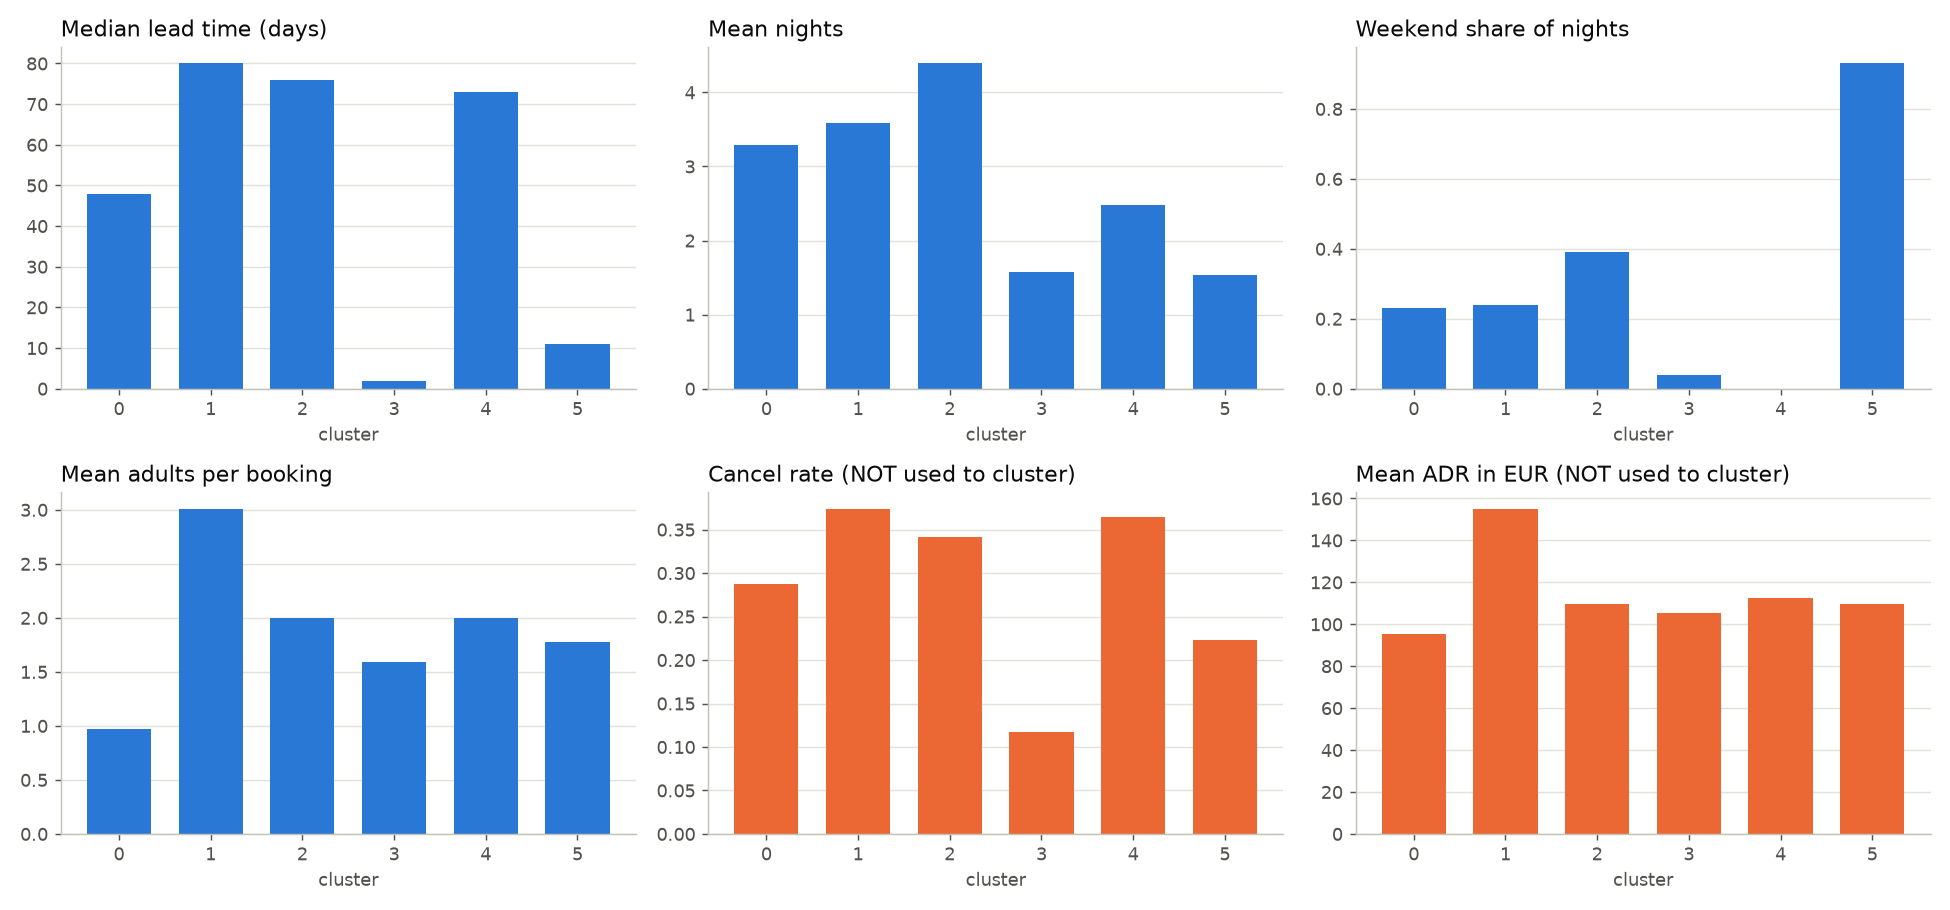
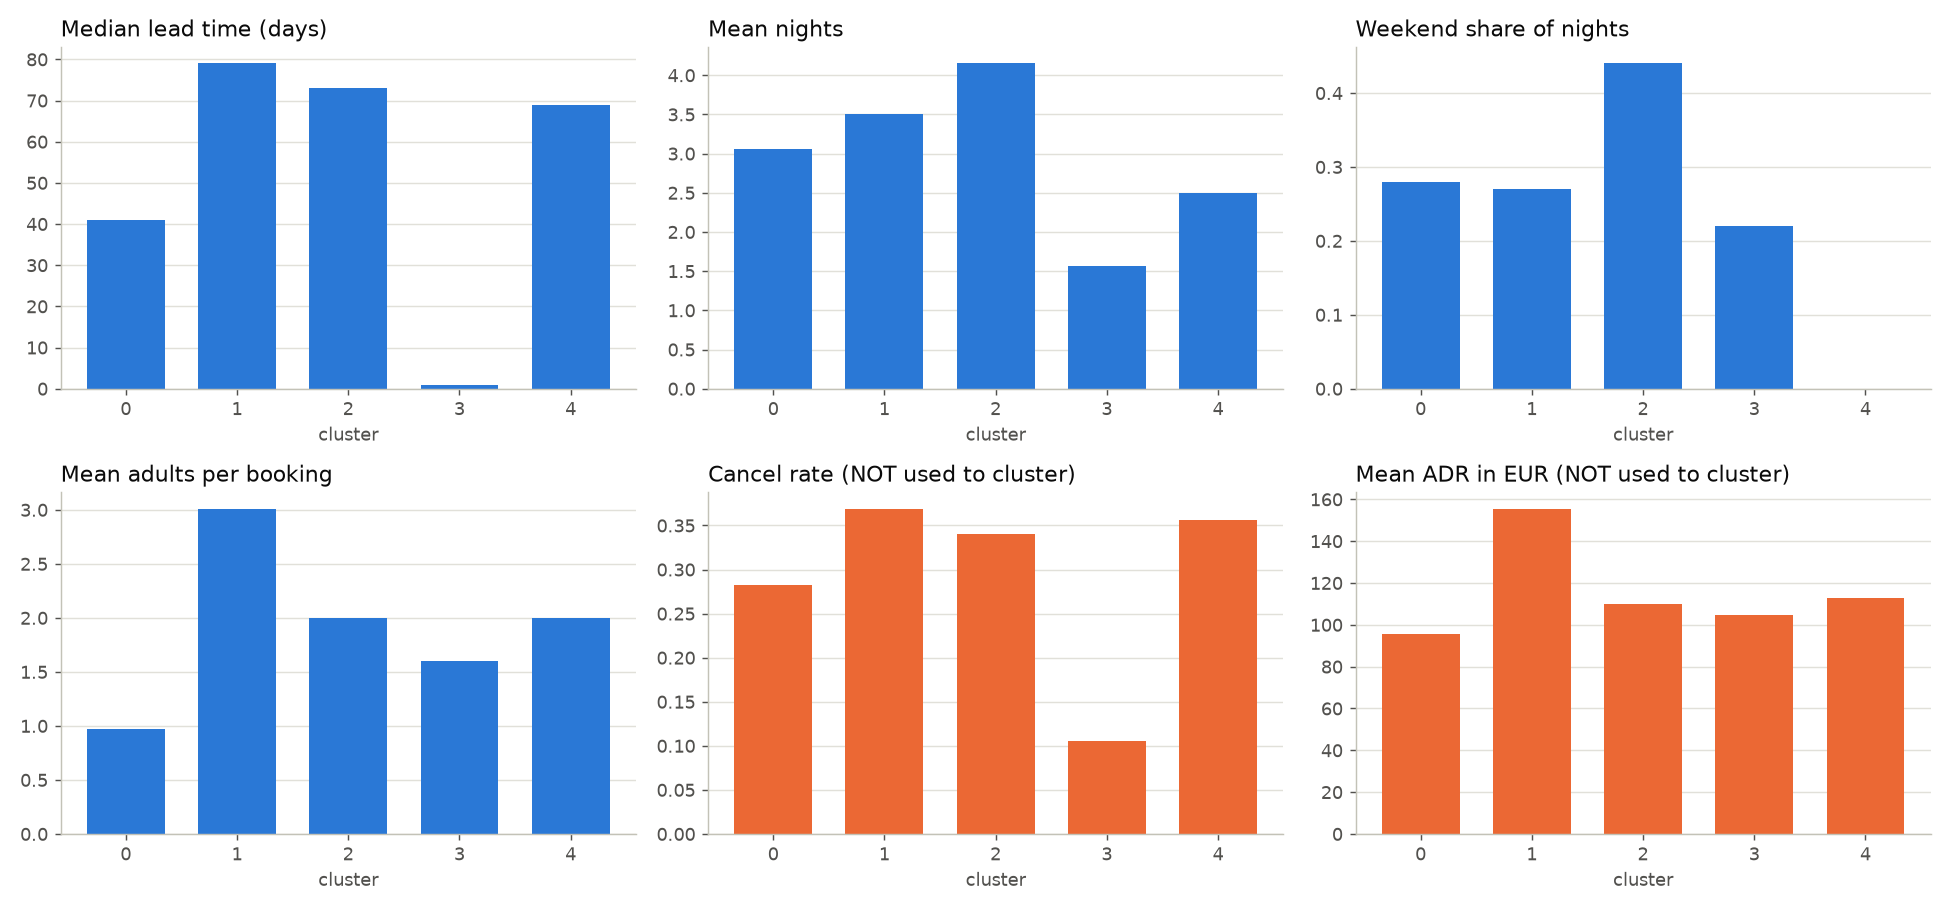
K-Means baseline: average over 5 seeds, add stability (ARI); k=5

diff --git a/src/clustering/kmeans_baseline.py b/src/clustering/kmeans_baseline.py
@@ -1,9 +1,16 @@
-"""Task C, Milestone 1: an untuned K-Means baseline on booking attributes (no outcome columns)."""
+"""Task C, Milestone 1: an untuned K-Means baseline on booking attributes (no outcome columns).
+
+Untuned means sklearn's default settings. Only k is chosen. To avoid reporting one lucky
+seed, every k is fitted with several seeds and the scores are averaged (this is a more
+honest measurement, not tuning: the model settings are not changed).
+"""
 import time
 
 import joblib
+import numpy as np
 import pandas as pd
 from sklearn.cluster import KMeans
+from sklearn.metrics import adjusted_rand_score
 from sklearn.pipeline import Pipeline
 from sklearn.preprocessing import FunctionTransformer
 
@@ -25,20 +32,38 @@ def build_kmeans_pipeline(k, seed):
     ])
 
 
-def scan_k(X, k_values, seed, silhouette_sample):
-    """Fit K-Means once for every k on the already-prepared matrix X and score each result."""
+def scan_k(X, k_values, seed, silhouette_sample, n_seeds):
+    """Fit K-Means for every k with n_seeds different seeds on the already-prepared matrix X.
+
+    The scores are averaged over the seeds. silhouette_std shows how much they move, and
+    stability_ari is the average agreement (1 = identical clusters) between the first
+    seed's clusters and the other seeds' clusters for the same k.
+    """
     rows = []
     for k in k_values:
-        start = time.perf_counter()
-        model = KMeans(n_clusters=k, random_state=seed).fit(X)
-        seconds = time.perf_counter() - start
-        scores = score_clustering(X, model.labels_, silhouette_sample, seed)
-        rows.append({"k": k, "inertia": model.inertia_, **scores, "fit_seconds": round(seconds, 2)})
+        fits = []
+        for s in range(n_seeds):
+            start = time.perf_counter()
+            model = KMeans(n_clusters=k, random_state=seed + s).fit(X)
+            fits.append((model, time.perf_counter() - start))
+        reference = fits[0][0].labels_
+        scores = [score_clustering(X, m.labels_, silhouette_sample, seed) for m, _ in fits]
+        aris = [adjusted_rand_score(reference, m.labels_) for m, _ in fits[1:]]
+        rows.append({
+            "k": k,
+            "inertia": float(np.mean([m.inertia_ for m, _ in fits])),
+            "silhouette": float(np.mean([sc["silhouette"] for sc in scores])),
+            "davies_bouldin": float(np.mean([sc["davies_bouldin"] for sc in scores])),
+            "calinski_harabasz": float(np.mean([sc["calinski_harabasz"] for sc in scores])),
+            "fit_seconds": round(float(np.mean([t for _, t in fits])), 2),
+            "silhouette_std": float(np.std([sc["silhouette"] for sc in scores])),
+            "stability_ari": float(np.mean(aris)) if aris else 1.0,
+        })
     return pd.DataFrame(rows)
 
 
 def choose_k(scan, min_k, max_k):
-    """Highest silhouette inside the allowed range. No outcome column is involved."""
+    """Highest average silhouette inside the allowed range. No outcome column is involved."""
     allowed = scan[(scan["k"] >= min_k) & (scan["k"] <= max_k)]
     return int(allowed.loc[allowed["silhouette"].idxmax(), "k"])
 
@@ -47,16 +72,18 @@ def run(df, config, k=None):
     seed = config["seed"]
     settings = config["clustering"]
     paths = config["paths"]
+    n_seeds = settings.get("stability_seeds", 5)
 
     # 1. Prepare the data once, then try many k on the same matrix.
     prepare = Pipeline([("features", FunctionTransformer(add_clustering_features)),
                         ("preprocess", build_clustering_preprocessor())])
     X = prepare.fit_transform(df)
-    scan = scan_k(X, settings["k_values"], seed, settings["silhouette_sample"])
+    scan = scan_k(X, settings["k_values"], seed, settings["silhouette_sample"], n_seeds)
     if k is None:
         k = choose_k(scan, settings["min_k_to_choose"], settings["max_k_to_choose"])
+    chosen = scan[scan["k"] == k].iloc[0]
 
-    # 2. Fit the full pipeline with the chosen k on all cleaned rows.
+    # 2. Fit the full pipeline with the chosen k on all cleaned rows (this is the saved model).
     start = time.perf_counter()
     pipeline = build_kmeans_pipeline(k, seed).fit(df)
     fit_seconds = time.perf_counter() - start
@@ -64,7 +91,11 @@ def run(df, config, k=None):
     X = pipeline[:-1].transform(df)  # the same prepared matrix K-Means saw
     metrics = {"algorithm": "kmeans", "config": "baseline", "k": k, "rows": len(df), "features_after_encoding": X.shape[1],
                **score_clustering(X, labels, settings["silhouette_sample"], seed),
-               "inertia": pipeline.named_steps["kmeans"].inertia_, "fit_seconds": round(fit_seconds, 2)}
+               "inertia": pipeline.named_steps["kmeans"].inertia_, "fit_seconds": round(fit_seconds, 2),
+               "seeds_averaged": n_seeds,
+               "silhouette_mean_over_seeds": float(chosen["silhouette"]),
+               "silhouette_std_over_seeds": float(chosen["silhouette_std"]),
+               "stability_ari": float(chosen["stability_ari"])}
 
     # 3. Describe the clusters and save everything.
     profile = report.profile_clusters(df, labels)
